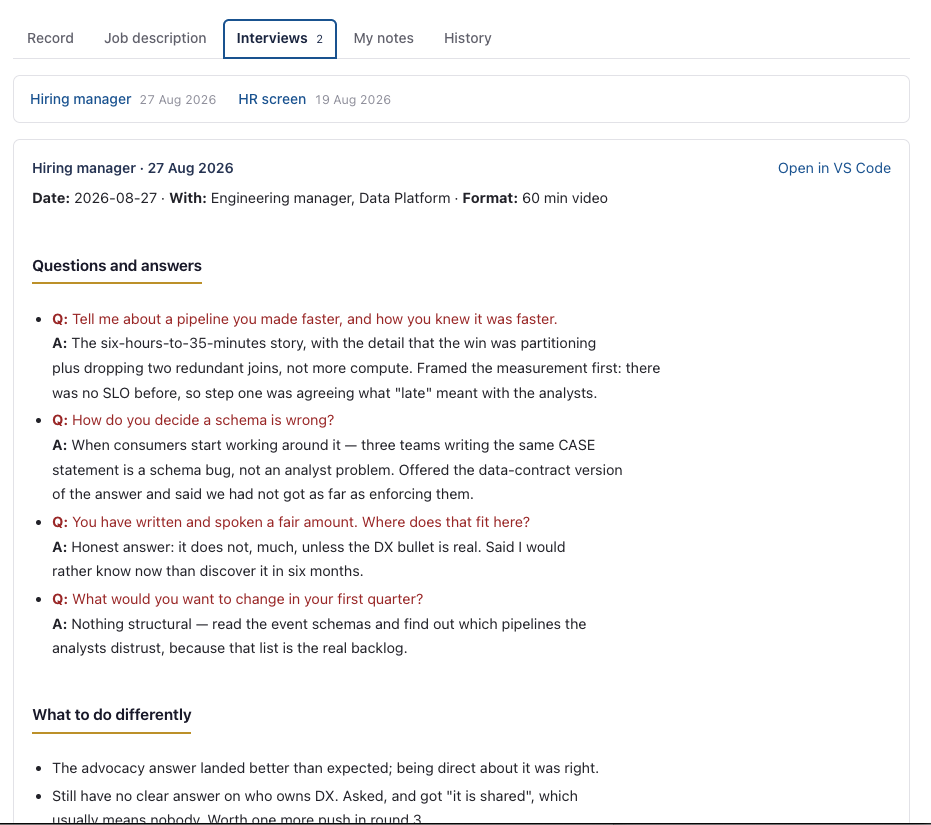
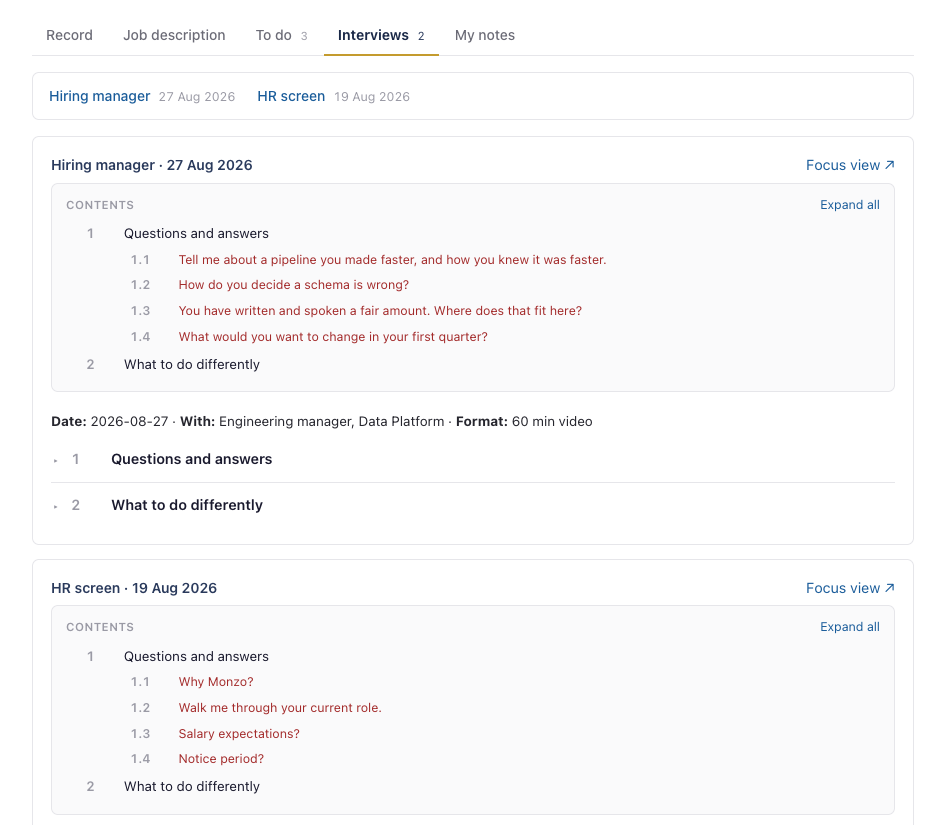
Screenshots and intro GIF retaken with the current UI; record- tools to redo them
- tools/record-screenshots: brings up the demo app on its own port and
  throwaway root, drives headless Chrome through each page listed in
  tools/recording/screenshots.mjs, writes every still in docs/images/ at a
  fixed size and framing, and takes the app down.
- tools/record-intro: the same for quick-intro.gif, stepping through the
  README's tour a frame at a time (tools/recording/intro.mjs) and encoding with
  sips + gifsicle at 128 colours. 1.9 MB and 48s, against 5.3 MB and 80s.
- tools/recording/cdp.mjs: a small DevTools-protocol driver on Node 22's
  built-in WebSocket; no Puppeteer or Playwright.
- All ten PNGs and the GIF retaken against the example data. The companies
  shot is wide enough not to cut off its last columns; two captions in
  docs/screenshots.md rewritten for the new pictures.
- docs/under-the-hood.md and docs/screenshots.md point at the tools.

Claude-Session: https://claude.ai/code/session_015X56qykEqGdaXF1ydmgjcY

diff --git a/docs/screenshots.md b/docs/screenshots.md
@@ -7,7 +7,9 @@ Everything here is the **example data set** that ships with the repo: Alex River
 fictional job-seeker, and every company, note, interview and number below is synthetic.
 You can bring this exact app up yourself with `tools/run-demo` (see
 [under-the-hood.md](under-the-hood.md#the-web-app)) — it serves `example-data/` from a
-throwaway copy, so it touches nothing of your own.
+throwaway copy, so it touches nothing of your own. The pictures themselves are
+regenerated from it by `tools/record-screenshots` and `tools/record-intro`, so they can
+be retaken after any change to the UI.
 
 The app is read-mostly by design. The agent writes the files, `import_jobs` turns them
 into rows, and these pages are where you *look* at the result and nudge a status.
@@ -54,11 +56,14 @@ aspirational"* is a question for the next call, not a weakness.
 
 ### An application — the interviews
 
-![The interviews tab of an application, showing a hiring-manager round as question-and-answer pairs followed by a what-to-do-differently section](images/application-interviews.png)
+![The interviews tab of an application: a jump list of rounds, then each round with a contents index of its questions and sections, folded until opened](images/application-interviews.png)
 
 Every round against the same application, each one a file in the application folder.
-Questions are rendered in red and answers in black — the colouring keys off the
-`- **Q:**` / `**A:**` markers, so a round file that uses them gets this layout for free.
+Each round opens with a contents index of its sections and questions, and its sections
+start folded, so a long round is a list to jump through rather than a wall of text;
+**Focus view** opens one round on a page of its own for reading during a call. Questions
+are rendered in red and answers in black — the colouring keys off the `- **Q:**` /
+`**A:**` markers, so a round file that uses them gets this layout for free.
 
 Each round ends with **what to do differently**, which is the part that compounds: by
 round three you are reading your own notes on what landed, not reconstructing them.
@@ -121,7 +126,7 @@ will not tell you which.
 
 ### Status over time
 
-![A stacked step chart of where every application sat each week, from mid-July to late September](images/stats-status-over-time.png)
+![A stacked step chart of where every application sat each week, from mid-July onwards](images/stats-status-over-time.png)
 
 **Stock, not events** — the complement to the dashboard's activity chart. This counts
 where everything *was* each week, so the top of the pile is the size of the tracker and

diff --git a/docs/under-the-hood.md b/docs/under-the-hood.md
@@ -148,6 +148,8 @@ Depth: **[portal-scan-and-scoring.md](portal-scan-and-scoring.md)**.
 tools/run-dev-local-db            # http://127.0.0.1:8010, foreground until Ctrl-C
 tools/run-dev-local-db 8020       # if 8010 is busy
 tools/run-demo                    # the same app on example data, http://127.0.0.1:8011
+tools/record-screenshots          # retake docs/images/*.png from the demo app
+tools/record-intro                # re-record docs/images/quick-intro.gif
 ```
 
 `run-demo` is the one to reach for when the app is going to be *seen* — a screen
@@ -161,6 +163,18 @@ Note what it does *not* do: `/jobstudio init --from-example` also gets you an ap
 of example data, but it does it by repointing the checkout — so it replaces whatever
 data root you were using. `run-demo` passes `$JOBSTUDIO_DATA` for one process and leaves
 the pointer file alone, which is why it is safe to run mid-session on a real setup.
+
+The two `record-` tools are `run-demo` with a camera. Each brings the demo app up on its
+own port (8015, `$RECORD_PORT` to change it) in its own throwaway root, drives headless
+Chrome through it, and takes it down again. `record-screenshots` writes every still in
+`docs/images/` at a fixed window size and framing, so two runs differ only where the UI
+did; name shots to retake just those (`tools/record-screenshots dashboard cvs`).
+`record-intro` steps through the README's tour a frame at a time and encodes it as the
+GIF, which keeps every frame sharp and the file under 2 MB. The pages and the tour are
+plain lists in `tools/recording/screenshots.mjs` and `tools/recording/intro.mjs`; the
+captions in `docs/screenshots.md` and the README are prose, so reread them after a
+retake. They need Google Chrome and Node 22 or later, plus `gifsicle` and macOS's `sips`
+for the GIF. They are for whoever maintains the docs, not for using the toolkit.
 
 ### The interview focus view
 

diff --git a/CHANGELOG.md b/CHANGELOG.md
@@ -4,6 +4,21 @@ Dated entries, newest first.
 
 ## 2026-11-11
 
+- **The screenshots and the intro GIF are retaken, and can be again in one command.**
+  `tools/record-screenshots` brings up the demo app (`run-demo`, on its own port and in
+  its own throwaway root) and drives headless Chrome through each page in
+  `tools/recording/screenshots.mjs`. It writes every still in `docs/images/` at a fixed
+  window size and framing, then takes the app down. `tools/record-intro` does the same
+  for `quick-intro.gif`, stepping through the README's tour a frame at a time instead of
+  screen-recording it. Every frame is sharp, there is no browser chrome or pointer, and
+  at 128 colours the charts keep theirs (the old 64-colour recording turned the
+  Activity chart's green bars grey). The GIF is 1.9 MB and 48s, against 5.3 MB and 80s.
+  No Puppeteer or Playwright: Node 22's built-in WebSocket talks to Chrome's DevTools
+  protocol directly (`tools/recording/cdp.mjs`). The companies shot is now wide enough
+  that its last columns are no longer cut off. Two captions in `docs/screenshots.md`
+  described the old pictures and are rewritten: the interviews tab now opens with a
+  contents index, and status-over-time runs past September.
+
 - **Ask Claude: a chat panel in the web app.** A button at the top of the sidebar (or
   ⌘K / Ctrl+K) opens a drawer that talks to Claude Code with the same context as a
   terminal session in the repo: the `jobstudio` skill, `CLAUDE.md`, the global
